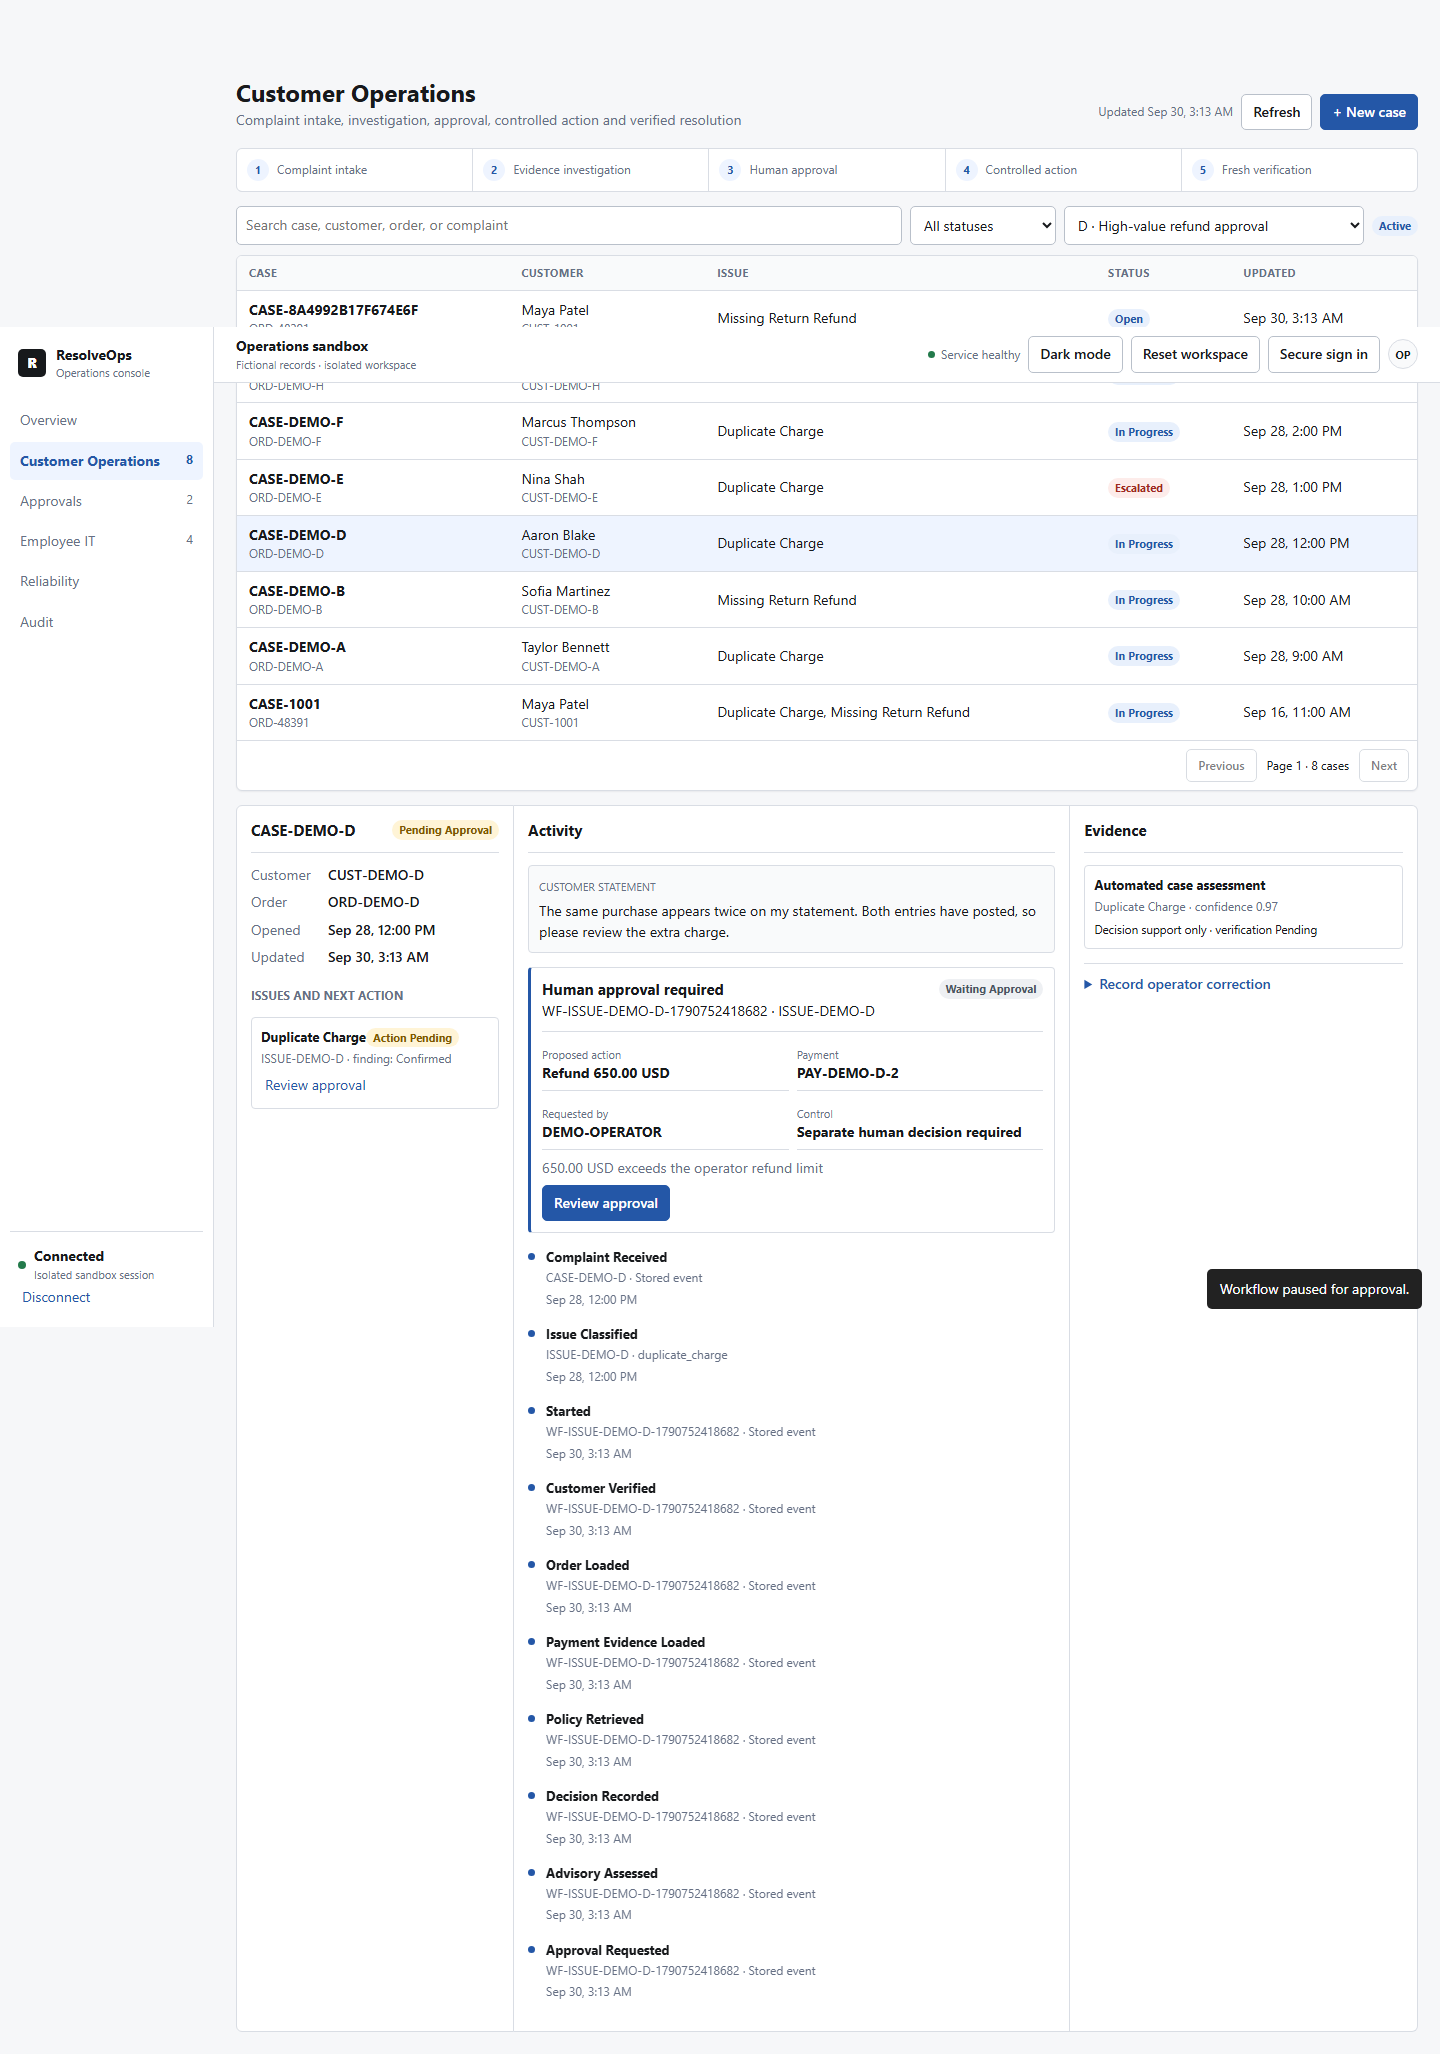
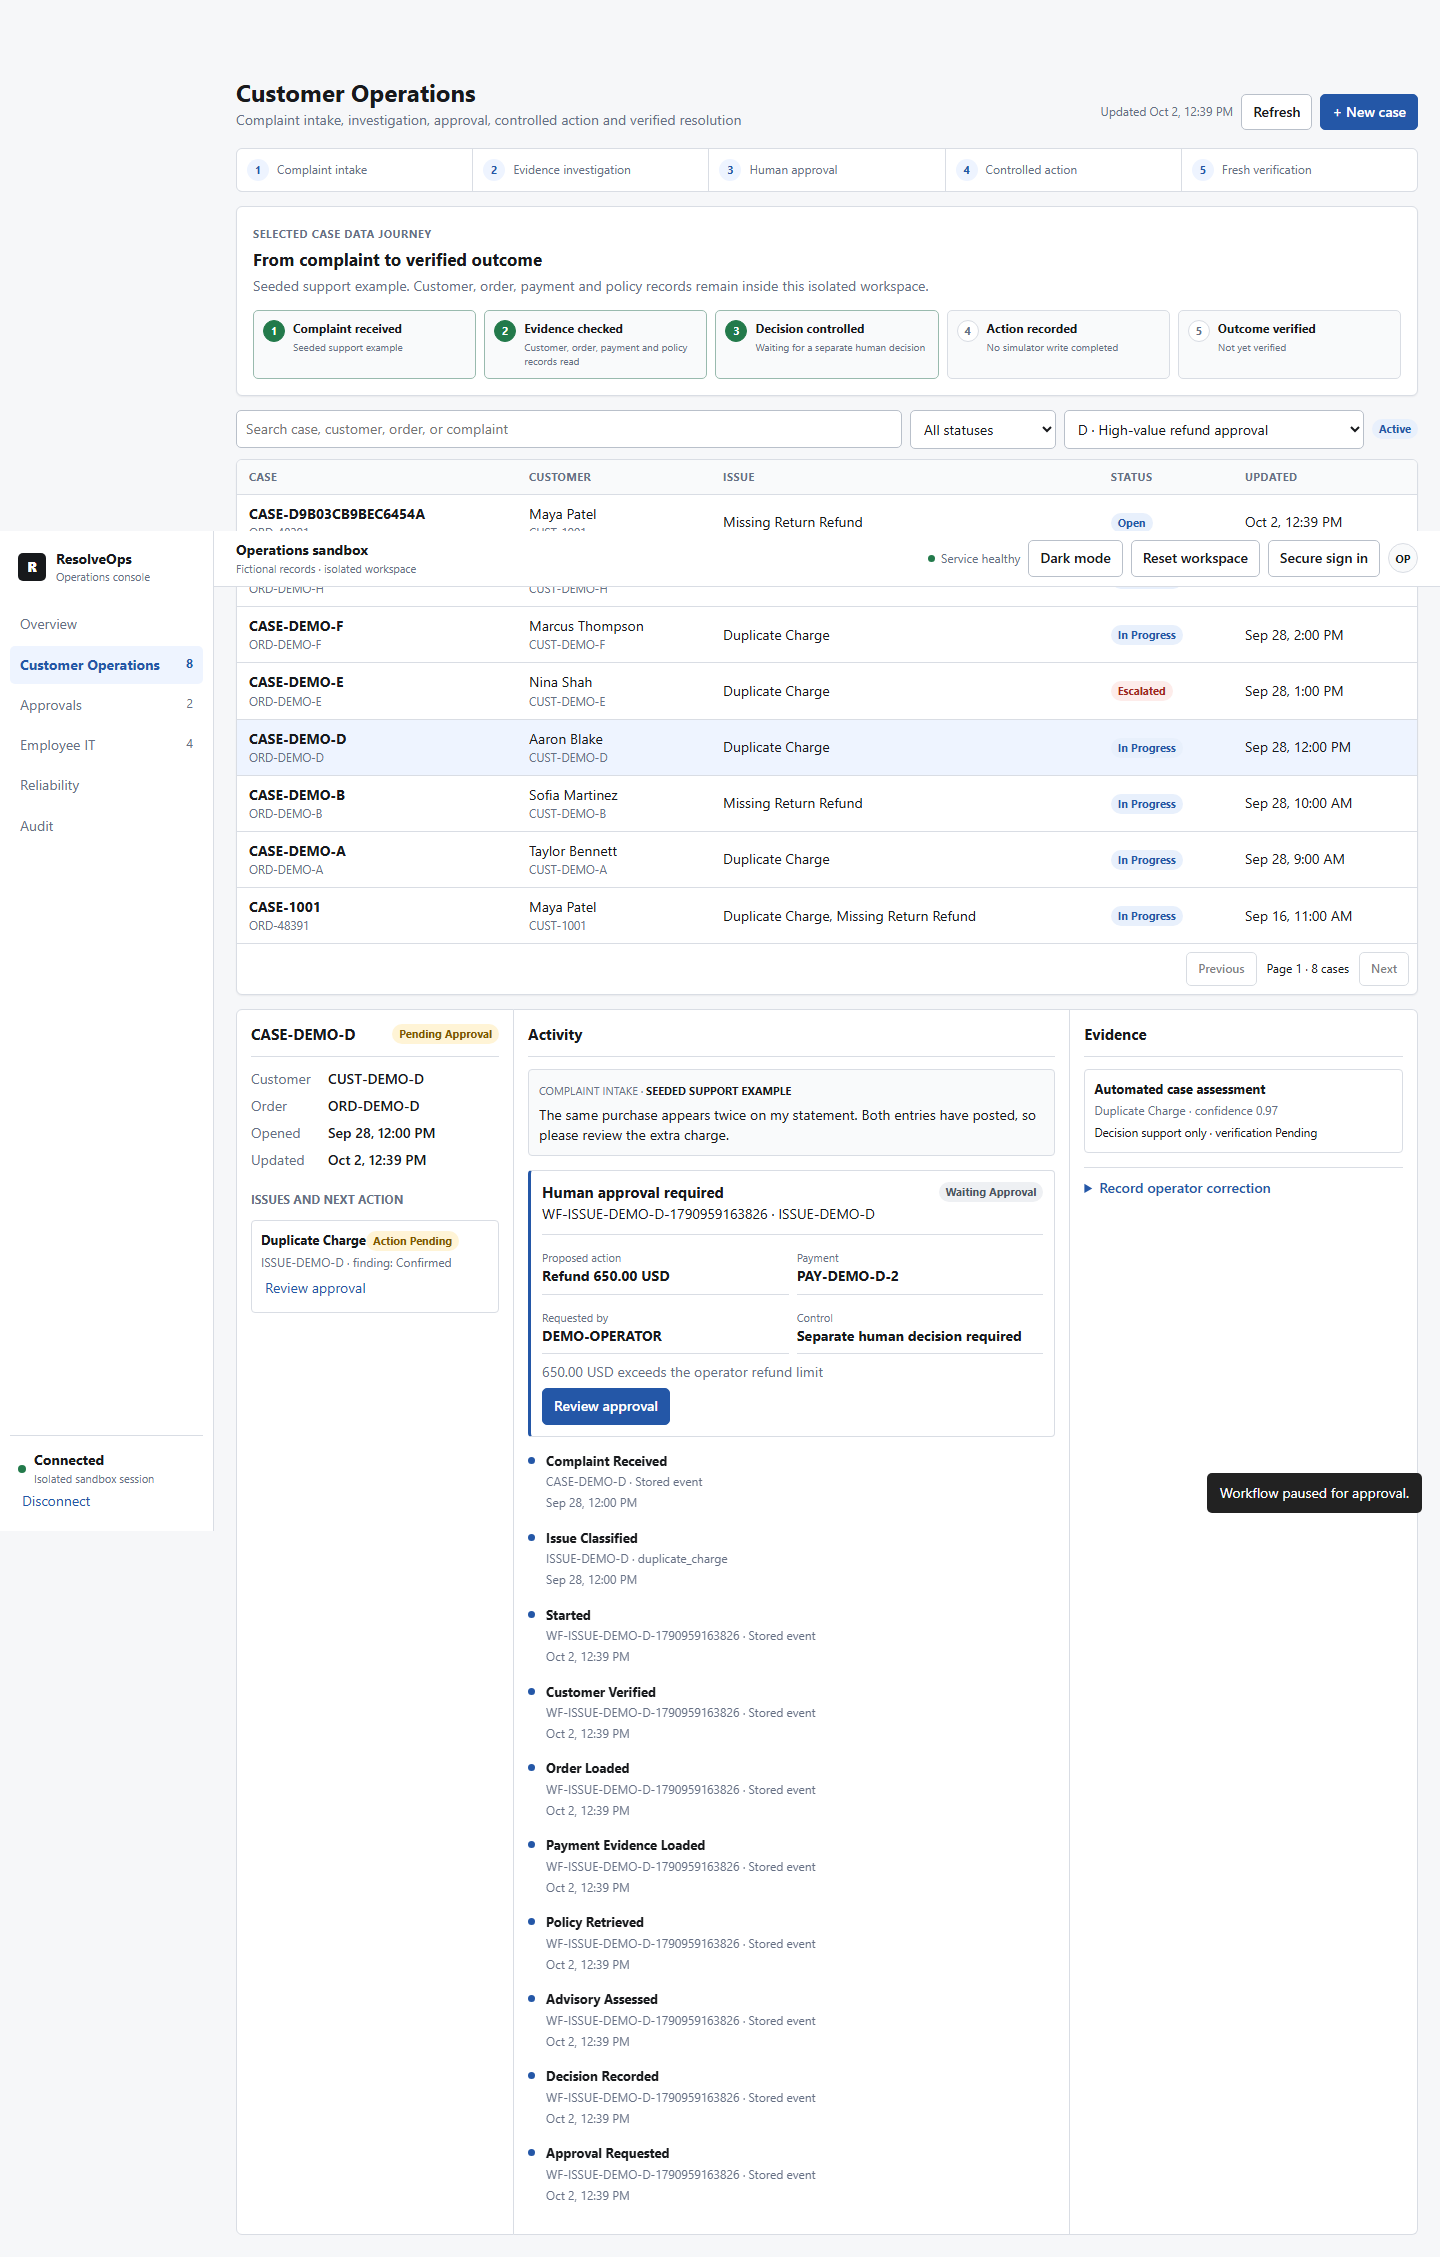
docs: clarify recruiter workflow and refresh evidence

diff --git a/README.md b/README.md
@@ -2,10 +2,10 @@
 
 [![CI](https://github.com/abhilashvadla98-pixel/resolveops/actions/workflows/ci.yml/badge.svg)](https://github.com/abhilashvadla98-pixel/resolveops/actions/workflows/ci.yml)
 
-ResolveOps is an operations system that investigates customer and employee cases, grounds advice in
-versioned evidence, pauses sensitive changes for approval, executes idempotently, and verifies the
-new state. Complex customer cases automatically use a five-role LangGraph investigation; model
-output remains advisory and deterministic code keeps action authority.
+ResolveOps is a case-resolution service for customer-support and employee-IT teams. It connects an
+incoming request to evidence, a controlled decision, an idempotent action and an independent read
+of the resulting state. Complex customer cases use a five-role LangGraph investigation, but model
+output stays advisory: deterministic code owns approvals, writes and verification.
 
 The public demo opens with populated synthetic data and two distinct paths:
 
@@ -14,10 +14,26 @@ The public demo opens with populated synthetic data and two distinct paths:
 - **Employee IT Operations:** access request → identity and MFA checks → manager approval →
   least-privilege grant → fresh verification.
 
-[Live synthetic demo](https://resolveops-demo.onrender.com/console) *(free host: allow about one minute for the first wake-up)*
-· [42-second product teaser](https://github.com/abhilashvadla98-pixel/resolveops/releases/download/v1.0.0/resolveops-product-demo.webm)
-· [evaluation evidence](docs/EVALUATION.md) · [engineering case study](docs/CASE_STUDY.md)
-· [public-demo deployment](docs/PUBLIC_DEMO.md)
+[Open the synthetic demo](https://resolveops-demo.onrender.com/console) *(the free host may need about
+one minute to wake)* · [watch the 42-second overview](https://github.com/abhilashvadla98-pixel/resolveops/releases/download/v1.0.0/resolveops-product-demo.webm)
+· [watch the 72-second technical walkthrough](https://github.com/abhilashvadla98-pixel/resolveops/releases/download/v1.1.0/resolveops-technical-walkthrough.webm)
+
+## Three-minute recruiter path
+
+1. Open the demo. It creates an isolated workspace with fictional records; no login or key is
+   required.
+2. Select **Open customer workflow**, choose **D · High-value refund approval**, then select
+   **Investigate**.
+3. Read the evidence and proposed action. Select **Review approval**, record a reason and approve.
+4. Confirm that the case is **Resolved**, the action is **Verified**, and the five-stage data
+   journey is complete.
+5. Open **Reliability** to inspect the persisted attempt and verification. Then open **Employee IT**
+   and select `ITCASE-2004` to see missing MFA stop an access request.
+
+Every payment, directory, repository and ticket interaction in the public demo uses a local
+simulator. The interface never claims that a real bank transfer or repository grant occurred.
+
+![ResolveOps overview with separate customer and employee workflows](docs/assets/resolveops-overview.png)
 
 ## Flagship workflow
 
@@ -41,44 +57,43 @@ The same control pattern supports employee repository-access requests: identity,
 team, manager approval, directory membership, Git account, repository ownership, action, and fresh
 verification are all checked independently.
 
-## Product walkthrough
+## Customer workflow: complaint to verified outcome
 
-Watch the [72-second technical walkthrough](https://github.com/abhilashvadla98-pixel/resolveops/releases/download/v1.1.0/resolveops-technical-walkthrough.webm) for the complete path: live specialist investigation, policy evidence, human approval, controlled action, fresh verification and a fail-closed employee-access check.
+Complaints can arrive through the console, the authenticated intake API or the signed event-ingest
+endpoint. The demo queue is preloaded so the complete flow is reviewable without connecting a CRM.
+The selected-case panel shows where the complaint came from and how its customer, order, payment
+and policy records stay connected.
 
-### 1. Choose the workflow
-
-The landing view loads a repeatable fictional workspace automatically. Each visitor receives a
-separate session workspace and can enter either workflow without setup or credentials.
-
-![ResolveOps overview with Customer Operations and Employee IT Operations](docs/assets/resolveops-overview.png)
-
-### 2. Investigate a customer case
-
-The case workspace keeps the original complaint, structured issues, evidence, policy citations,
-agent trace and timeline together. The model may recommend; it cannot authorize the action.
-
-![Resolved customer workflow with evidence and verification](docs/assets/resolveops-customer-workflow.png)
-
-### 3. Stop for human approval
+### 1. Investigate, then stop for approval
 
 A sensitive refund pauses durably and shows the proposed amount, payment, reason and authority
-boundary before an operator can approve or reject it.
+boundary before an operator can approve or reject it. The investigation cannot move money.
 
 ![Customer refund waiting for human approval](docs/assets/resolveops-customer-approval.png)
 
-### 4. Process employee access safely
+### 2. Execute once and verify from fresh state
+
+After approval, the control plane records one simulated refund using an idempotency key. It then
+reads the payment-provider simulator independently; only a matching read marks the case resolved.
+The UI retains the policy citations, ordered timeline and draft customer response.
+
+![Resolved customer workflow with policy evidence and fresh verification](docs/assets/resolveops-customer-workflow.png)
+
+### 3. Inspect operational evidence
+
+The reliability view exposes the persisted attempt, latency and verification events instead of
+reducing the run to a chat response.
+
+![Reliability record for the verified refund operation](docs/assets/resolveops-reliability.png)
+
+## Employee workflow: request to least-privilege access
 
 The separate internal flow checks employment, identity, MFA, manager approval, group membership,
-repository ownership and the final permission. Unsafe requests fail closed.
+repository ownership and the final permission. `ITCASE-2002` demonstrates the approval pause;
+`ITCASE-2004` demonstrates the missing-MFA safety stop. Unsafe requests fail closed and create no
+grant.
 
 ![Employee IT access workflow and safety checks](docs/assets/resolveops-employee-it.png)
-
-### 5. Verify the operation
-
-The reliability view exposes attempts, latency, recovery and the fresh-state verification used to
-decide whether an operation actually completed.
-
-![Reliability and verification evidence](docs/assets/resolveops-reliability.png)
 
 See the [click-by-click demo guide](docs/DEMO_WALKTHROUGH.md) for both complete paths.
 
@@ -90,15 +105,16 @@ See the [click-by-click demo guide](docs/DEMO_WALKTHROUGH.md) for both complete 
 | Employee IT regression | 14/14 | Access controls, idempotency and partial-state handling |
 | Offline multi-agent trajectories | 22/22 | Five-role routing, tools, critic, replanning and budgets |
 | Adversarial security set | 17/17 | Known injection and unsafe-request patterns are rejected |
-| Live single-reasoner Gemini check | 3/3 | Provider integration worked for that recorded run |
+| Live single-reasoner Gemini check | 3/3 | Provider integration worked for that dated run |
 | Reviewed-memory ablation | 8 paired cases | Tenant/policy-scoped memory path and token/routing comparison |
 | Human response review | 0/24 | Owner labels are intentionally still pending |
 | Demo data contract | 325 connected records | Repeatable customer, payment, return, IT, approval and audit state |
 | Public demo isolation | 2 independent sessions | A write in one visitor workspace was absent from the other |
 
 See [docs/EVALUATION.md](docs/EVALUATION.md) for datasets, checksums, commands and limitations.
-The 10-task × 3-trial live multi-agent runner is included but must not run until the exposed demo
-credential is rotated. Unknown pricing remains `null`; the project never invents cost.
+The 10-task × 3-trial live multi-agent runner and its dated failure report are retained as evidence;
+provider failures are not recast as model-quality passes. Unknown pricing remains `null` rather
+than being invented.
 
 ## Quick start
 
@@ -167,6 +183,7 @@ Run the required checks:
 
 - [Architecture and agent control](docs/MULTI_AGENT_ARCHITECTURE.md)
 - [Evaluation methodology](docs/EVALUATION.md)
+- [Engineering case study](docs/CASE_STUDY.md)
 - [Operator console](docs/OPERATOR_CONSOLE.md)
 - [Security and threat model](docs/SECURITY.md)
 - [Deployment and reference infrastructure](docs/DEPLOYMENT.md)

diff --git a/docs/DEMO_WALKTHROUGH.md b/docs/DEMO_WALKTHROUGH.md
@@ -20,28 +20,36 @@ changed by this public demo.
 ## Workflow 1: Customer Operations
 
 1. Select **Open customer workflow**.
-2. Choose a case from the queue. The selected case shows the original complaint, structured issue,
-   persisted evidence and history.
-3. For a complete approval path, choose **Demo scenarios**, then **D · Approval pause and resume**.
-4. Select **Investigate**. ResolveOps runs the normal investigation path, cites evidence and pauses
-   the sensitive refund before execution.
+2. The **Selected case data journey** explains the five stages. Its first stage identifies whether
+   the complaint is a seeded support example or an operator/API submission.
+3. To prove intake, select **+ New case**, enter a complaint and create it. The case is persisted and
+   classified, but intake does not authorize any action.
+4. For the flagship path, choose **Demo scenarios**, then **D · High-value refund approval**.
+5. Select **Investigate**. ResolveOps loads the customer, order, payment and current policy evidence.
+   Complex cases enter the normal five-role graph; any model result remains decision support.
+6. The workflow pauses before the proposed 650 USD simulated refund. Confirm that **Action
+   recorded** and **Outcome verified** are still incomplete.
 
 ![Customer action paused for a human decision](assets/resolveops-customer-approval.png)
 
-5. Select **Review approval**, enter a decision reason and approve or reject it.
-6. On approval, the deterministic control plane executes the idempotent simulated action, reads the
-   new state independently and reports completion only when verification passes.
+7. Select **Review approval**, enter a decision reason and approve or reject it. The demo uses a
+   separate approver identity so the submission and decision remain distinct audit events.
+8. On approval, deterministic controls execute one idempotent write to the payment-provider
+   simulator. ResolveOps then performs a separate fresh read and reports completion only when the
+   stored state matches the approved action.
+9. Confirm all five data-journey stages are complete. Inspect the policy citations, ordered
+   timeline, verification record and draft customer response.
 
 ![Customer workflow after verified resolution](assets/resolveops-customer-workflow.png)
 
-What this proves: evidence-grounded investigation, bounded model authority, durable human approval,
-idempotent execution, fresh verification and an auditable customer response draft.
+What this proves: persisted intake, evidence-grounded investigation, bounded model authority,
+durable human approval, idempotent execution, fresh verification and an auditable response draft.
 
 ## Workflow 2: Employee IT Operations
 
 1. Return to **Overview** and select **Open employee IT workflow**.
 2. Select `ITCASE-2001` to see the approved path. Choose **Run safety checks and process** to create
-   and verify the simulated repository permission.
+   and verify a permission in the repository-access simulator.
 3. Select `ITCASE-2002` to see a durable manager-approval pause. Use **Review approval**, record the
    reason, approve it, and then process the request.
 4. Select `ITCASE-2004` to see the safety path. Missing MFA stops the request and no access is
@@ -60,3 +68,16 @@ events and verification. Open **Audit** to see who did what, to which case and w
 ![Persisted reliability and verification evidence](assets/resolveops-reliability.png)
 
 Use **Reset workspace** to restore the same baseline for the next walkthrough.
+
+## What is real and what is simulated
+
+- Real: API boundaries, persistence, tenant scoping, workflow state, approval records, idempotency,
+  authorization checks, read-after-write verification, audit history and browser regression.
+- Simulated: customer CRM records, payment/refund provider, employee directory, repository access,
+  tickets and notifications.
+- Optional and provider-dependent: Gemini-backed specialist reasoning. A provider timeout or failed
+  evidence contract stops before approval or execution.
+
+The [technical walkthrough](https://github.com/abhilashvadla98-pixel/resolveops/releases/download/v1.1.0/resolveops-technical-walkthrough.webm)
+is a recorded, dated run with a verified specialist trace. The public demo remains useful without a
+model key because its safety and action-control path is deterministic.
